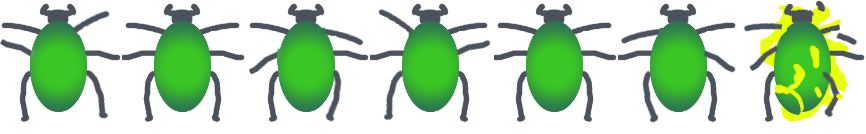
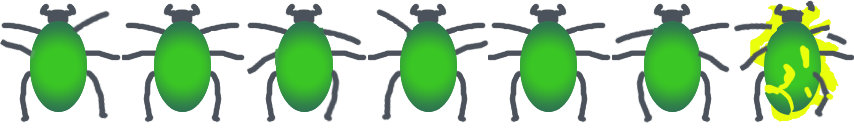
zxz

diff --git a/Bug Squish/Bug.js b/Bug Squish/Bug.js
@@ -53,11 +53,12 @@ class Character{
     rotate(this.angle);
 
     if(this.move == 0){
-      image(this.characterSheet, 0, 0, 150, 150, 123, 0, 123, 123);
+      image(this.characterSheet, 0, 0, 150, 150, 122, 0, 120, 120);
     }
 
+    //bug is 120 so move 122  
     else{
-      image(this.characterSheet, 0, 0, 150, 150, 123 * (this.id), 0, 123, 123);
+      image(this.characterSheet, 0, 0, 150, 150, 122 * (this.id), 0, 120, 120);
     }
     
     if(frameCount % 30 == 0){
